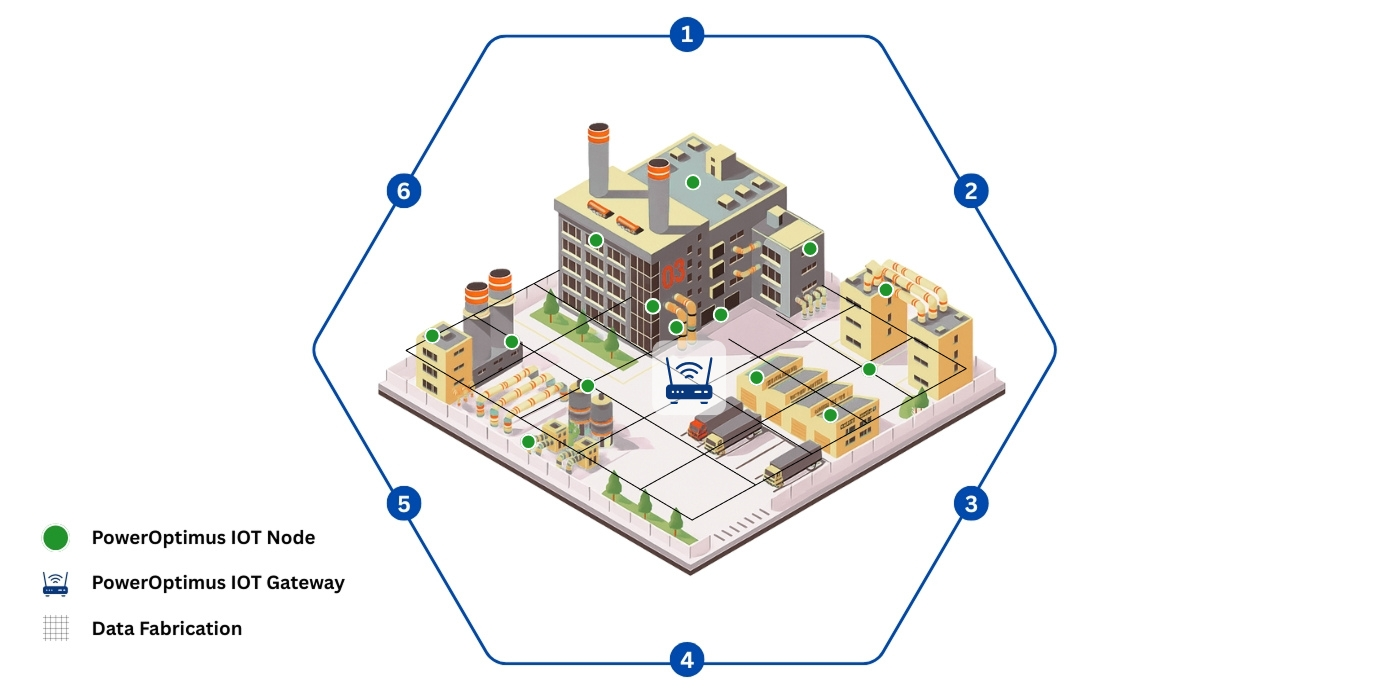
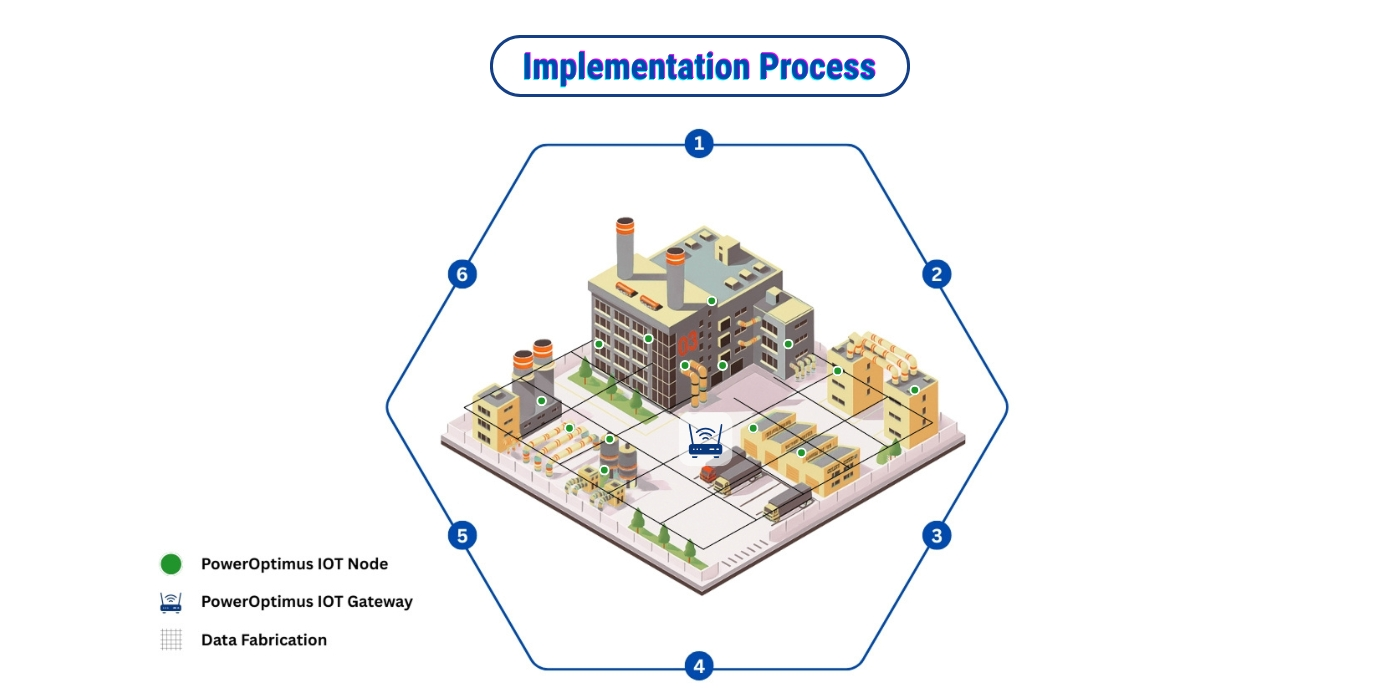
process dia change

diff --git a/poweroptimus-website-nextjs/src/app/components/solution/process-diagram.tsx b/poweroptimus-website-nextjs/src/app/components/solution/process-diagram.tsx
@@ -5,7 +5,7 @@ import './process-diagram.css'; // Import HomePage specific styles
 const ProcessDiagram = () => {
   return (
     <section className="process-section">
-      <h2 className="Header1sec marTop">Process</h2>
+      {/* <h2 className="Header1sec marTop">Process</h2> */}
       <div className="diagram-placeholder Header1sec marTop">
 
         <img src="/process-diagram-three.jpg" alt="System Architecture" />
